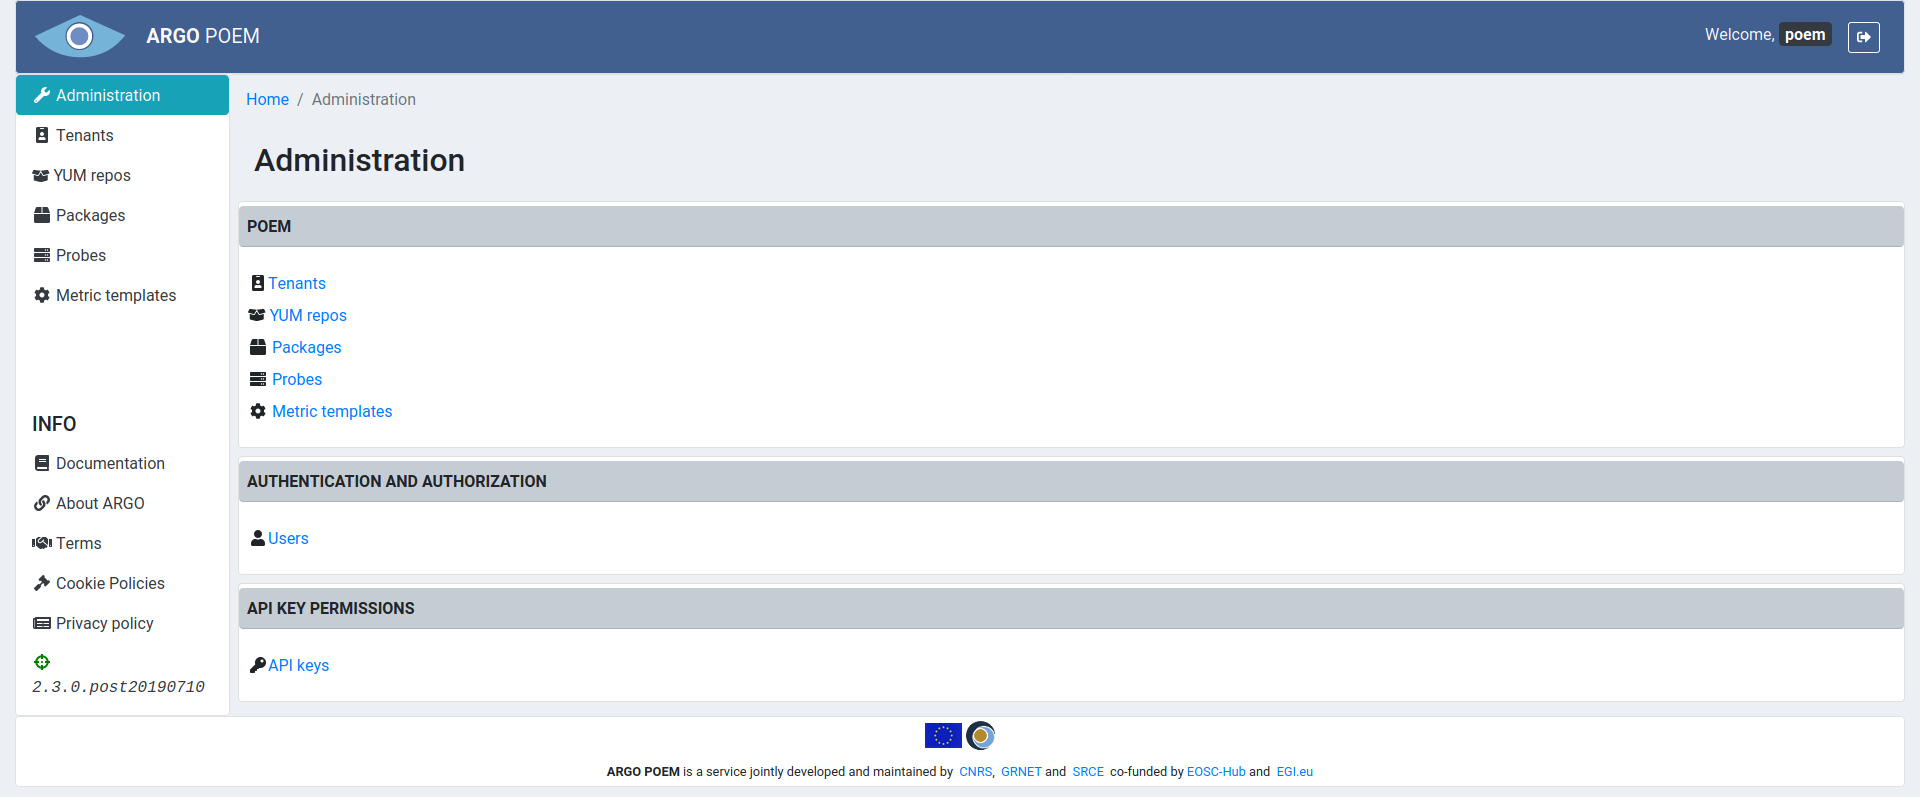
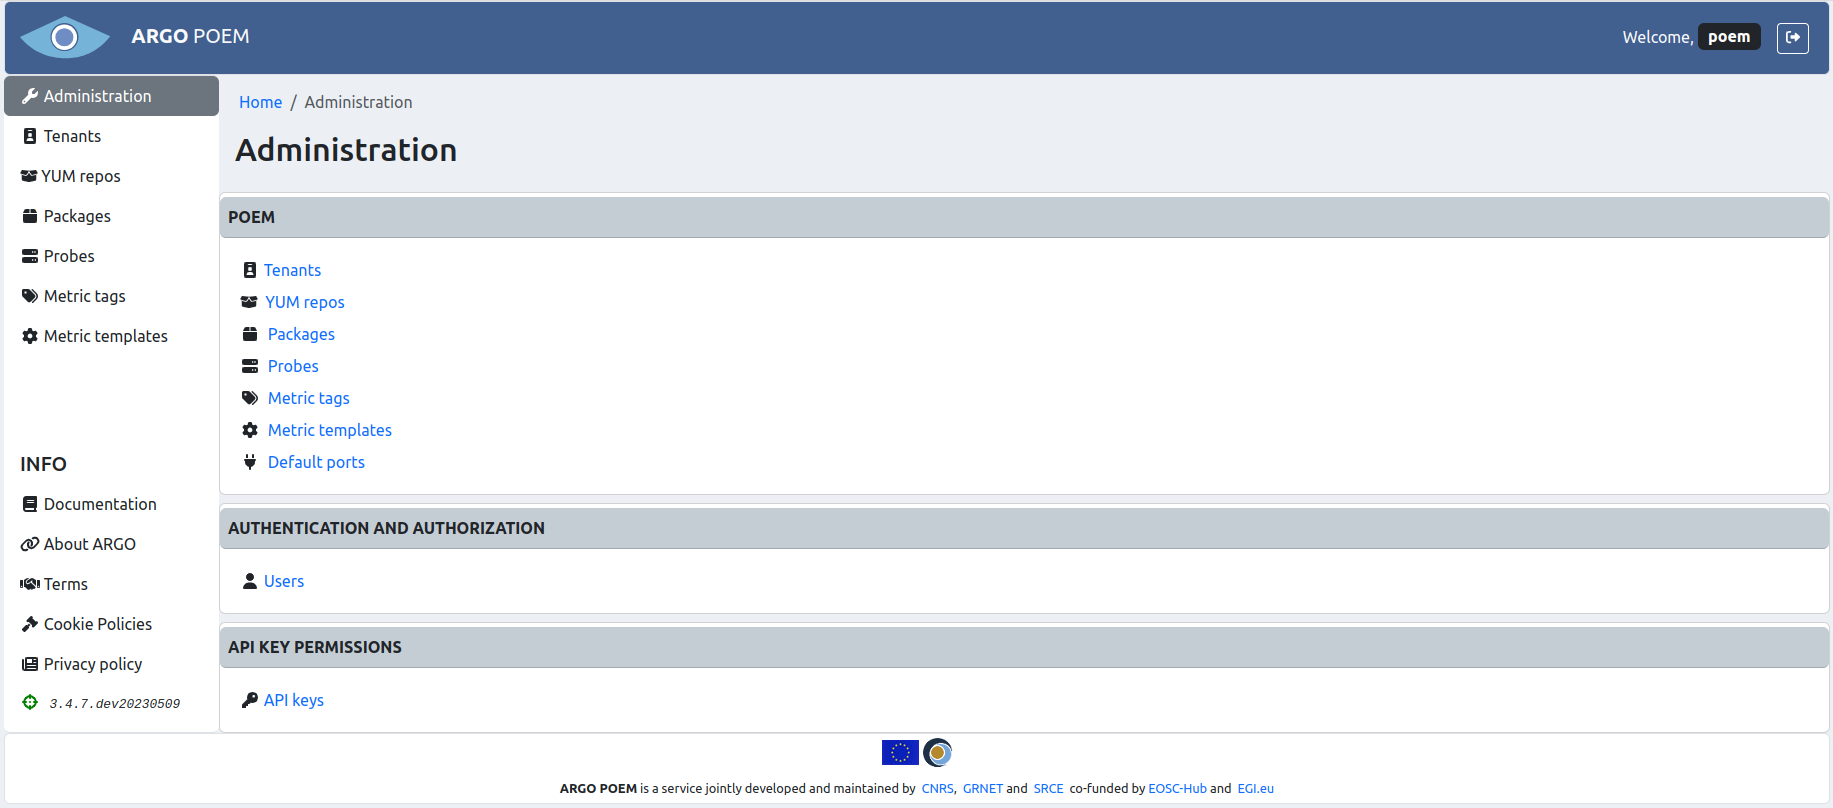
Update documentation for Administration page on SuperAdmin POEM

diff --git a/doc/v1/docs/superadmin_administration.md b/doc/v1/docs/superadmin_administration.md
@@ -10,7 +10,7 @@ Administration page is only available to authenticated users with superuser stat
 
 ### POEM
 
-The pages in the first section ([tenants](superadmin_tenants.md), [YUM repos](superadmin_repos.md), [packages](superadmin_packages.md), [probes](superadmin_probe.md), and [metric templates](superadmin_metric_templates.md)) are also available to all users from the menu on the left side. 
+Most pages in the first section ([tenants](superadmin_tenants.md), [YUM repos](superadmin_repos.md), [packages](superadmin_packages.md), [probes](superadmin_probe.md), [metric tags](superadmin_metric_tags.md), and [metric templates](superadmin_metric_templates.md)) are also available to all users from the menu on the left side. The exception to this is [default ports](superadmin_default_ports.md) page, which is only accessible from this page, due to the fact that default port values are very rarely updated.
 
 ### Authentication and Authorization Page
 
